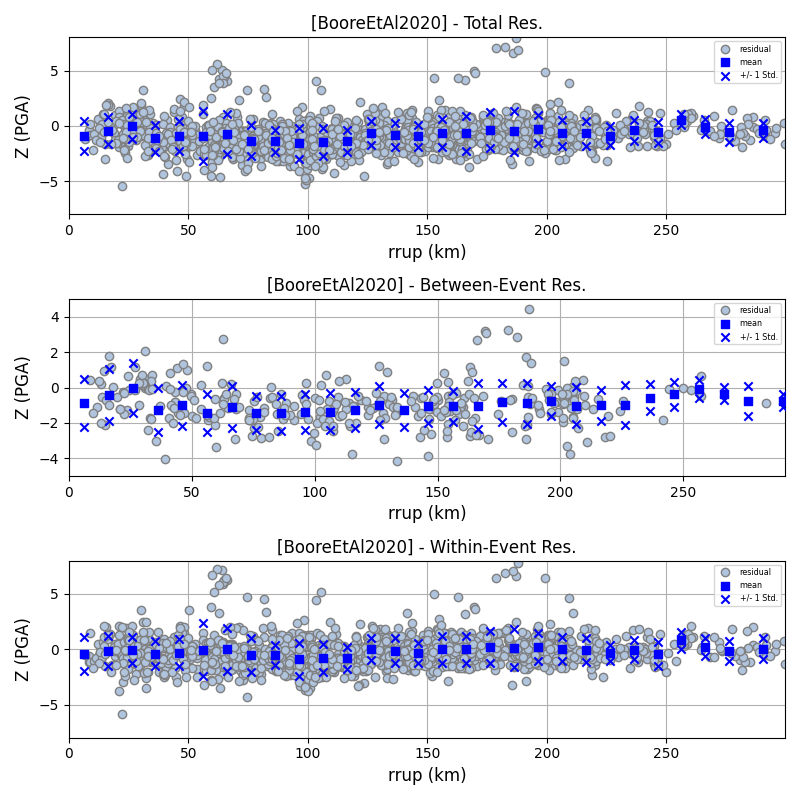
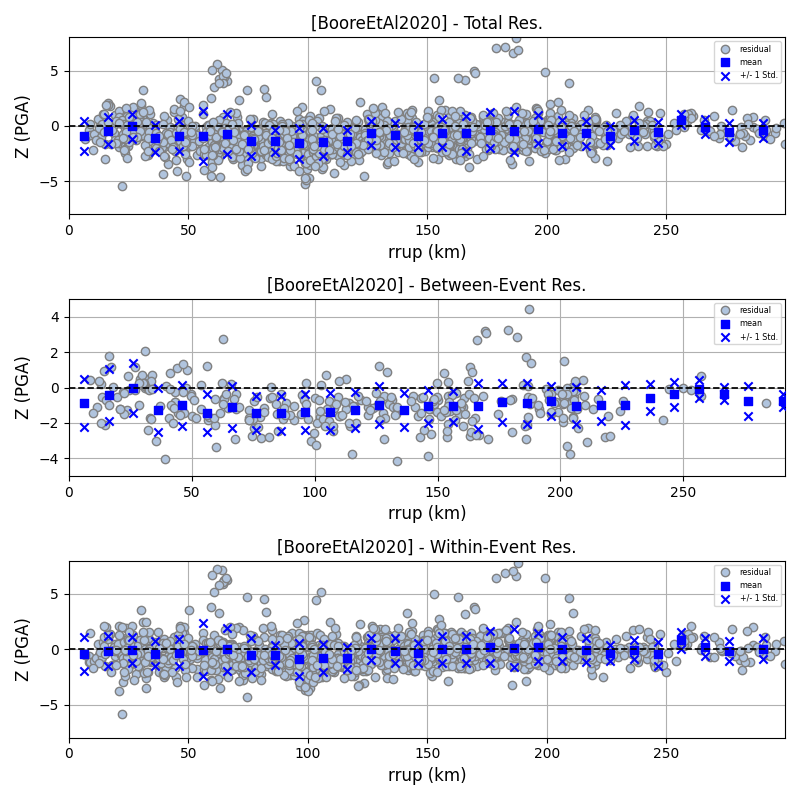
fix zero line

diff --git a/openquake/smt/residuals/residual_plotter.py b/openquake/smt/residuals/residual_plotter.py
@@ -392,7 +392,9 @@ class ResidualScatterPlot(BaseResidualPlot):
         
             ax.scatter(res_data['bin_midpoints'], res_data['mean_res'] + (res_data['sigma_res']),
                        marker='x', color='b', label='+/- 1 Std.', zorder=4)
-            
+
+        ax.axhline(0, color='k', linestyle='--', linewidth=1.25, zorder=100)
+
         ax.legend(loc='upper right', fontsize='xx-small')
 
 
@@ -1069,20 +1071,27 @@ class ResidualWithSite(ResidualPlot):
         """
         data = {site_id: {} for site_id in self.residuals.site_ids}
         for iloc, site_resid in enumerate(self.residuals.site_residuals):
+
             resid = deepcopy(site_resid)
             site_id = list(self.residuals.site_ids)[iloc]
             n_events = resid.site_analysis[self.gmpe][self.imt]["events"]
+            
             total_res = resid.site_analysis[self.gmpe][self.imt]["Total"]
             total_exp = resid.site_analysis[self.gmpe][self.imt]["Expected total"]
+            
             data[site_id]["Total"] = np.array(total_res) / np.array(total_exp)
+            
             if "Intra event" in resid.site_analysis[self.gmpe][self.imt].keys():
+                
                 inter_res = resid.site_analysis[self.gmpe][self.imt]["Inter event"] 
                 intra_res = resid.site_analysis[self.gmpe][self.imt]["Intra event"] 
                 inter_exp = resid.site_analysis[self.gmpe][self.imt]["Expected inter"]
                 intra_exp = resid.site_analysis[self.gmpe][self.imt]["Expected intra"]
+
                 keep = pd.notnull(inter_res) # Dropping NaN idxs will realign with exp
                 data[site_id]["Inter event"] = np.array(inter_res)[keep] / np.array(inter_exp)
                 data[site_id]["Intra event"] = np.array(intra_res) / np.array(intra_exp)
+            
             data[site_id]["ID"] = list(self.residuals.site_ids)[iloc]
             data[site_id]["N"] = n_events
             data[site_id]["x-val"] = (float(iloc) + 0.5) * np.ones_like(data[site_id]["Total"])
